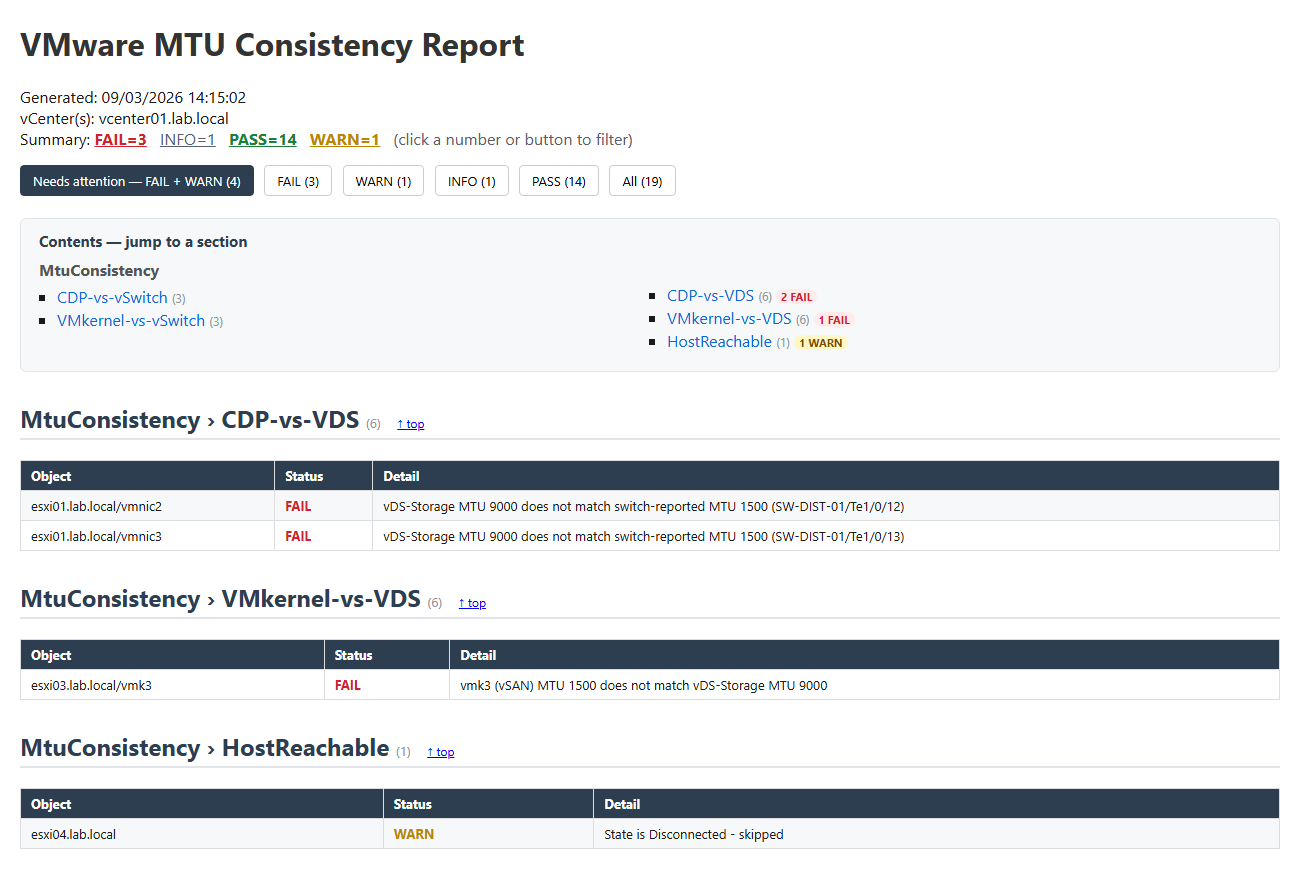
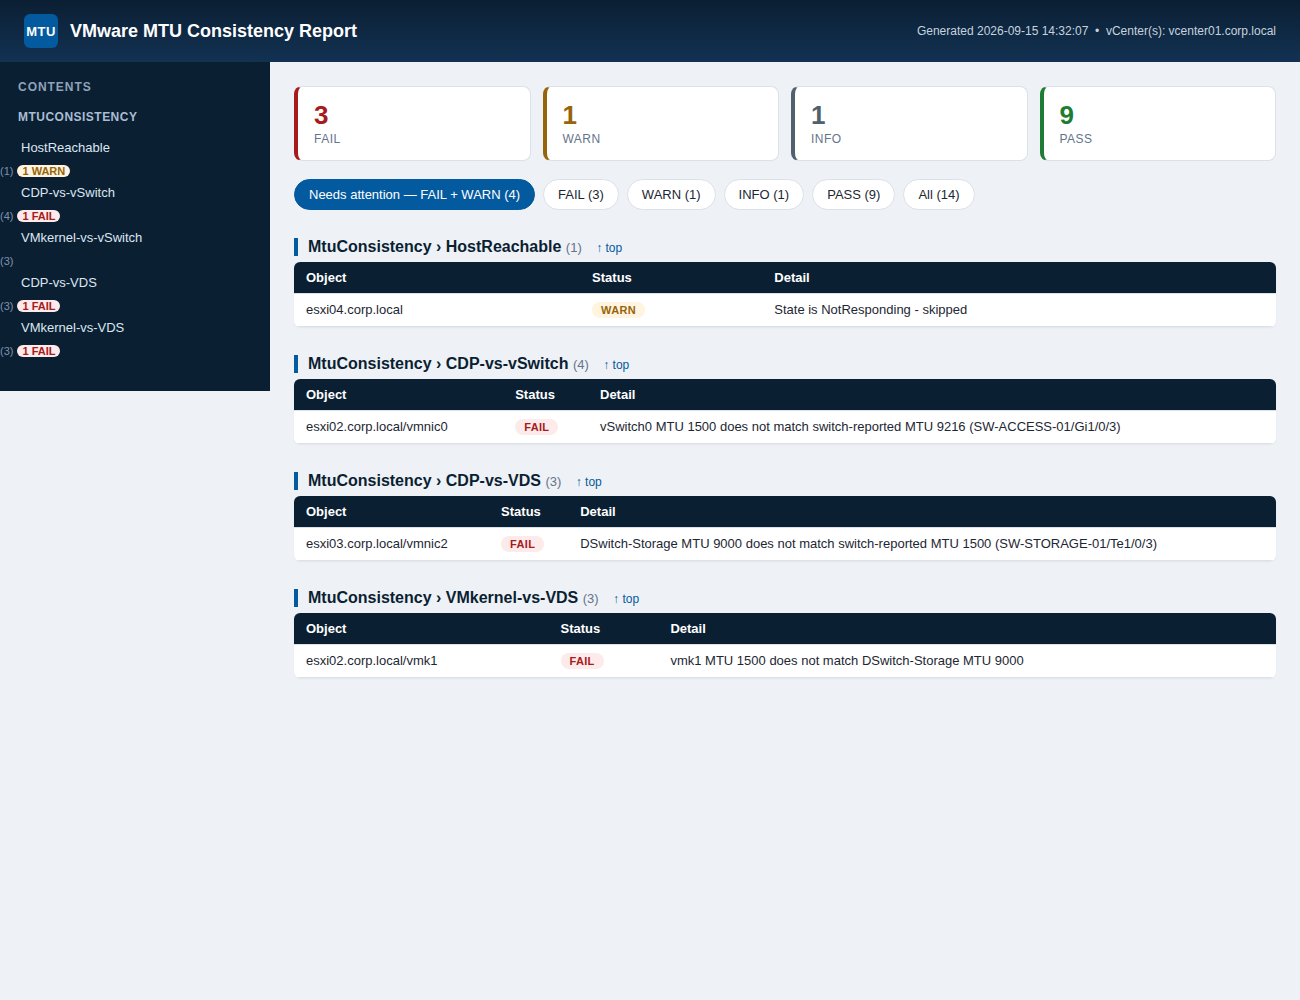
Update sample report screenshots for the iDRAC-style dashboard layout
The screenshots in docs/img/ still showed the old plain-table report design
from before the dashboard restyle (dark navy header/sidebar, stat tiles,
status pill badges). Regenerated both from the actual report template
(same CSS/HTML/JS the scripts emit) with representative fictional lab
data, screenshotted at the same 1300px width as the originals.

README's "predates the current dashboard-style layout" caveats removed
since the screenshots are now current.

Claude-Session: https://claude.ai/code/session_01AsAgD7afb9opUeRPsVaJP6

diff --git a/README.md b/README.md
@@ -95,7 +95,7 @@ The HTML report uses a **dashboard-style layout** — a dark navy header and lef
 
 Results are also broken into **per-check sections** (e.g. *VMware Tools*, *Hardware Version*, *Mounted ISOs*, *Snapshots*, *NTP*, *Datastore Free*), each in its own table. The left **sidebar** lists every section grouped by category with per-section counts and `FAIL`/`WARN` badges — click an entry to jump straight to that table. Severity filtering and section navigation work together: under a filter, sections with no matching rows are hidden automatically, and clicking a sidebar link reveals the target. (The CSV stays complete and unfiltered for trending; open it in Excel and use AutoFilter on the Status column for the same effect.)
 
-**Sample report** (fictional lab data; screenshot predates the current dashboard-style layout):
+**Sample report** (fictional lab data):
 
 ![Sample health check HTML report](docs/img/healthcheck-sample.png)
 
@@ -140,7 +140,7 @@ If CDP is disabled, or the connected switch only speaks LLDP, the CDP-vs-switch 
 
 **Output.** Like the other reports, results are written to two timestamped files in `-ReportPath` (**defaults to the current directory**): `VMwareMtuConsistencyCheck-<yyyyMMdd-HHmmss>.html` and `.csv`, both with the columns **Category, Object, Check, Status, Detail**, produced in a `finally` block even if the run errors. The HTML report opens pre-filtered to `FAIL` + `WARN` with the same clickable status buttons and per-check sections as the health check.
 
-**Sample report** (fictional lab data; screenshot predates the current dashboard-style layout):
+**Sample report** (fictional lab data):
 
 ![Sample MTU consistency check HTML report](docs/img/mtu-consistency-check-sample.png)
 
